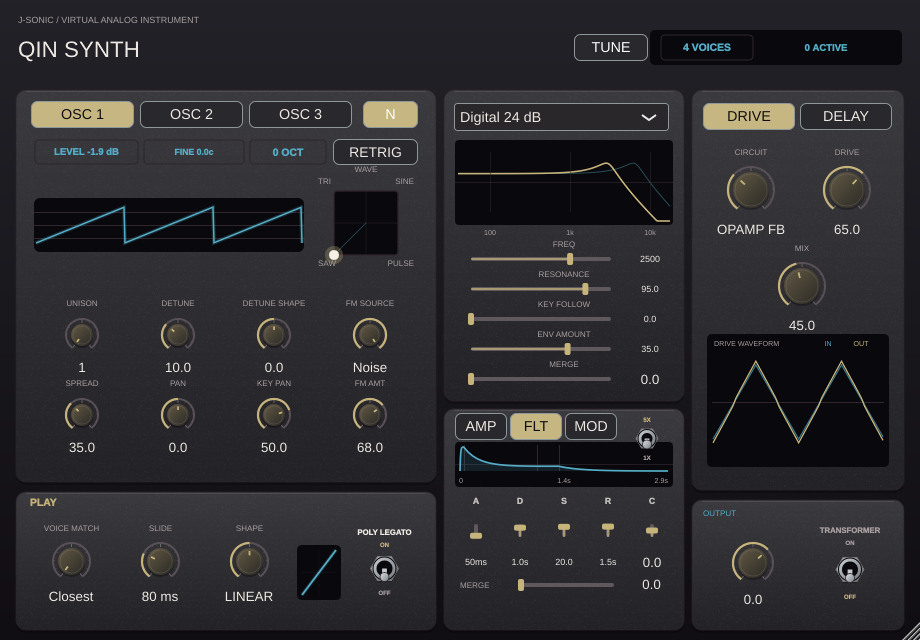
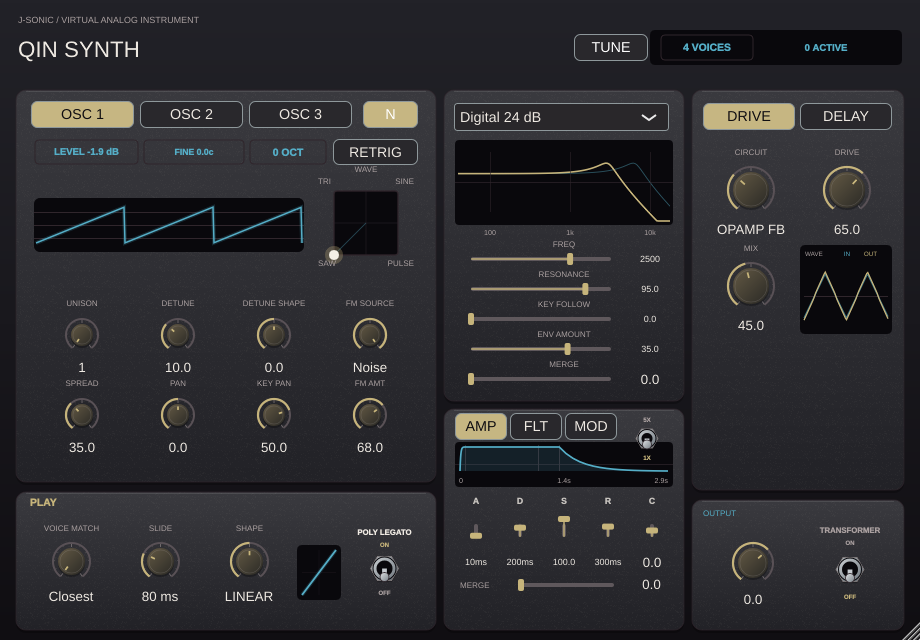
Compact Qin drive waveform beside Mix control

diff --git a/projects/QinSynth/Source/PluginEditor.cpp b/projects/QinSynth/Source/PluginEditor.cpp
@@ -666,7 +666,8 @@ QinSynthEditor::QinSynthEditor(QinSynthProcessor& synth)
     driveMode.onValueChange=[this]
     {
         updateDrivePreview();
-        repaint(editorScaling::repaintArea(*this,designWidth,designHeight,{707,334,182,133}));
+        repaint(editorScaling::repaintArea(*this,designWidth,designHeight,
+            {driveScopeX,driveScopeY,driveScopeWidth,driveScopeHeight}));
     };
     driveMix.setSliderStyle(juce::Slider::RotaryHorizontalVerticalDrag);
     driveMix.setComponentID("driveMix");
@@ -683,7 +684,8 @@ QinSynthEditor::QinSynthEditor(QinSynthProcessor& synth)
     driveMix.onValueChange=[this]
     {
         updateDrivePreview();
-        repaint(editorScaling::repaintArea(*this,designWidth,designHeight,{707,334,182,133}));
+        repaint(editorScaling::repaintArea(*this,designWidth,designHeight,
+            {driveScopeX,driveScopeY,driveScopeWidth,driveScopeHeight}));
     };
     addAndMakeVisible(transformerButton);
     transformerAttachment=std::make_unique<State::ButtonAttachment>(synth.parameters,"transformer",transformerButton);
@@ -807,7 +809,8 @@ QinSynthEditor::QinSynthEditor(QinSynthProcessor& synth)
     sliders[37].onValueChange=[this]
     {
         updateDrivePreview();
-        repaint(editorScaling::repaintArea(*this,designWidth,designHeight,{707,334,182,133}));
+        repaint(editorScaling::repaintArea(*this,designWidth,designHeight,
+            {driveScopeX,driveScopeY,driveScopeWidth,driveScopeHeight}));
     };
     for(size_t i=0;i<waves.size();++i)
     {
@@ -1029,7 +1032,8 @@ void QinSynthEditor::timerCallback()
                 if(std::abs(next.input[index])>1.e-4f || std::abs(next.output[index])>1.e-4f)
                 { liveScopeValid=true; break; }
             liveScope=std::move(next);
-            repaint(editorScaling::repaintArea(*this,designWidth,designHeight,{707,334,182,133}));
+            repaint(editorScaling::repaintArea(*this,designWidth,designHeight,
+                {driveScopeX,driveScopeY,driveScopeWidth,driveScopeHeight}));
         }
     }
     for(size_t i=0;i<waves.size();++i)
@@ -1184,7 +1188,7 @@ void QinSynthEditor::resized()
     verbNoteSlider.setBounds(714,158,74,75);
     driveModeLabel.setBounds(706,145,90,14); driveMode.setBounds(706,159,90,79);
     labels[37].setBounds(802,145,90,14); sliders[37].setBounds(802,159,90,79);
-    driveMixLabel.setBounds(758,241,88,14); driveMix.setBounds(758,255,88,79);
+    driveMixLabel.setBounds(707,241,88,14); driveMix.setBounds(707,255,88,79);
     transformerButton.setBounds(805,524,90,78);
     labels[36].setBounds(712,522,82,13); sliders[36].setBounds(712,535,82,73);
     for(int i=38;i<44;++i)
@@ -1414,13 +1418,14 @@ void QinSynthEditor::paint(juce::Graphics& g)
     g.setColour(stageStyle::secondary); g.setFont(juce::FontOptions(10.f));
     if(currentFxSection==0)
     {
-        const juce::Rectangle<float> scope(707,334,182,133);
+        const juce::Rectangle<float> scope{float(driveScopeX),float(driveScopeY),
+            float(driveScopeWidth),float(driveScopeHeight)};
         g.setColour(stageStyle::inset); g.fillRoundedRectangle(scope,5);
-        g.setColour(stageStyle::secondary); g.setFont(juce::FontOptions(8.f));
-        g.drawText("DRIVE WAVEFORM",714,338,105,12,juce::Justification::centredLeft);
-        g.setColour(cyan); g.drawText("IN",818,338,20,12,juce::Justification::centred);
-        g.setColour(accent); g.drawText("OUT",845,338,32,12,juce::Justification::centred);
-        g.setColour(stageStyle::grid); g.drawHorizontalLine(402,712,884);
+        g.setColour(stageStyle::secondary); g.setFont(juce::FontOptions(7.f));
+        g.drawText("WAVE",805,249,30,10,juce::Justification::centredLeft);
+        g.setColour(cyan); g.drawText("IN",839,249,16,10,juce::Justification::centred);
+        g.setColour(accent); g.drawText("OUT",857,249,27,10,juce::Justification::centred);
+        g.setColour(stageStyle::grid); g.drawHorizontalLine(296,804,888);
         const auto window=liveScopeValid ? qin::waveformWindow(liveScope.input)
             : qin::WaveformWindow{0.f,float(previewInput.size()-1),true};
         float peak=.2f;
@@ -1434,16 +1439,17 @@ void QinSynthEditor::paint(juce::Graphics& g)
         };
         if(liveScopeValid) { includePeak(liveScope.input); includePeak(liveScope.output); }
         else { includePeak(previewInput); includePeak(previewOutput); }
-        const auto gain=49.f/std::max(.2f,peak*1.2f);
+        const auto gain=29.f/std::max(.2f,peak*1.2f);
         const auto drawWave=[&](const auto& samples,juce::Colour colour)
         {
             juce::Path path;
-            for(size_t index=0;index<QinSynthProcessor::driveScopePoints;++index)
+            constexpr size_t displayPoints=80;
+            for(size_t index=0;index<displayPoints;++index)
             {
-                const auto fraction=float(index)/float(QinSynthProcessor::driveScopePoints-1);
-                const auto x=713.f+170.f*fraction;
+                const auto fraction=float(index)/float(displayPoints-1);
+                const auto x=804.f+84.f*fraction;
                 const auto sample=qin::waveformSample(samples,window.start+fraction*window.length);
-                const auto y=402.f-std::clamp(sample*gain,-49.f,49.f);
+                const auto y=296.f-std::clamp(sample*gain,-29.f,29.f);
                 if(index==0) path.startNewSubPath(x,y); else path.lineTo(x,y);
             }
             g.setColour(colour); g.strokePath(path,juce::PathStrokeType(1.3f));

diff --git a/projects/QinSynth/Tests/ProcessorTests.cpp b/projects/QinSynth/Tests/ProcessorTests.cpp
@@ -153,6 +153,11 @@ struct QinSynthEditorTestAccess
         && editor.transformerButton.getY()>=500 && editor.sliders[36].getY()>=500; }
     static bool compactFxKnobs(const QinSynthEditor& editor)
     { return editor.sliders[37].getHeight()<80 && editor.sliders[38].getHeight()<80; }
+    static bool compactDriveLayout(const QinSynthEditor& editor)
+    { return editor.driveMix.getRight()<=QinSynthEditor::driveScopeX
+        && editor.driveMix.getY()<QinSynthEditor::driveScopeY+QinSynthEditor::driveScopeHeight
+        && editor.driveMix.getBottom()>QinSynthEditor::driveScopeY
+        && QinSynthEditor::driveScopeWidth<=100 && QinSynthEditor::driveScopeHeight<=100; }
     static int driveModeCount(const QinSynthEditor& editor)
     { return editor.driveMode.getSliderStyle()==juce::Slider::RotaryHorizontalVerticalDrag
         ? juce::roundToInt(editor.driveMode.getMaximum()-editor.driveMode.getMinimum())+1 : 0; }
@@ -1491,6 +1496,7 @@ int main(int argc,char** argv)
                || !QinSynthEditorTestAccess::voiceDragEnabled(editor)
                || !QinSynthEditorTestAccess::outputSectionVisible(editor)
                || !QinSynthEditorTestAccess::compactFxKnobs(editor)
+               || !QinSynthEditorTestAccess::compactDriveLayout(editor)
                || !QinSynthEditorTestAccess::compactHeaderLayout(editor)
                || !QinSynthEditorTestAccess::wavePadEnabled(editor,0)
                || !QinSynthEditorTestAccess::wavePadEnabled(editor,1)
@@ -1713,7 +1719,7 @@ int main(int argc,char** argv)
                || std::abs(preview.parameters.getRawParameterValue("driveMix")->load()-45)>1.e-3
                || preview.parameters.getRawParameterValue("transformer")->load()<.5f)
                 throw std::runtime_error("Drive circuit, mix, and transformer controls must update host parameters");
-            if(changes({707,334,182,133},[&]{QinSynthEditorTestAccess::selectDriveMode(editor,4);})<20)
+            if(changes({800,245,92,89},[&]{QinSynthEditorTestAccess::selectDriveMode(editor,4);})<20)
                 throw std::runtime_error("Drive preview must follow the selected circuit");
             QinSynthEditorTestAccess::selectDriveMode(editor,2);
             QinSynthEditorTestAccess::setTransformer(editor,false);

diff --git a/projects/QinSynth/Source/PluginEditor.h b/projects/QinSynth/Source/PluginEditor.h
@@ -113,6 +113,7 @@ public:
 private:
     friend struct QinSynthEditorTestAccess;
     static constexpr int designWidth=920, designHeight=640;
+    static constexpr int driveScopeX=800, driveScopeY=245, driveScopeWidth=92, driveScopeHeight=89;
     void showOscillator(int oscillator);
     void showEnvelope(int envelope);
     void showFxSection(int section);

diff --git a/projects/QinSynth/README.md b/projects/QinSynth/README.md
@@ -42,7 +42,7 @@ ENV has three independent envelopes, edited with five vertical sliders labeled A
 
 FLT uses logarithmic Freq and Resonance sliders, plus Key Follow, Env Amount, and Merge. At 0% Merge every note has its own filter; at 100% the voices feed one shared stereo filter, with a smooth blend between the two paths. The longer horizontal sliders make fine filter adjustments easier. The response graph has a frequency scale and follows the active cutoff while notes play, averaging the voice cutoffs by level when several notes sound together. When MOD targets Resonance, a cyan slider marker and the response curve follow the effective resonance without changing the saved knob value. When idle, its solid trace represents the held filter-envelope level at C5 and a lighter trace shows the attack peak when different. The graph reserves headroom for the resonant peak. Filter choices are bypass, a nonlinear TB-303-style four-pole ladder, an 18 dB/oct Sallen-Key stage with a third low-pass pole, and 12 or 24 dB/oct digital state-variable low-passes. The Sallen-Key model solves its two capacitor voltages together with trapezoidal integration, and a precomputed coefficient table replaces repeated trigonometric calls. The state-variable filter uses a stable trapezoidal integrator with controlled resonance, and a soft ceiling bounds extreme polyphonic output. New voices start at their intended cutoff, while later cutoff changes glide over 5 ms per voice; unison detune and octave pitch ratios ramp within each audio block. New notes take a free voice first, then steal a released or oldest voice when the selected voice count is occupied. Sustain pedal (MIDI CC64), note-off, all-notes-off, and all-sound-off are supported.
 
-The stepped Circuit knob selects Zao Drive's BJT common emitter, op-amp feedback, diode shunt, and series diode crossover models with Zao's default bias and diode knee. Drive sets circuit intensity, while the separate Mix knob blends driven and dry oscillator signals; a short crossfade softens circuit changes. At zero Mix, the drive circuit does no processing. The BJT junction and Schottky current curves are precomputed and shared with Zao Drive; each voice's circuit state and solver still update with the audio. The waveform display compares input and post-drive output in real time, synchronizing both traces to complete input waveform periods when a stable period is present; when idle, it previews the selected circuit driven by a triangle wave. The OSC waveform illustration also spans three complete cycles. The delay-reverb reuses Lan Reverb's eight-line feedback network and Scatter control. Qin disables Lan's spectral resonance analyser and tamer. A MIDI note-on changes the feedback tap target and phase-scatter depth according to note pitch, velocity, and alternating onset direction; Tap Motion and Phase Motion set the amount. Lan's existing tap crossfades and phase smoothing soften these changes. No audio-spectrum detection controls the tap or phase. The **Transformer** button inserts Ren Transformer's default stage after Lan's output. Its nonlinear core stops processing when the button is off; a fixed 64-sample delay keeps the on and off paths aligned.
+The stepped Circuit knob selects Zao Drive's BJT common emitter, op-amp feedback, diode shunt, and series diode crossover models with Zao's default bias and diode knee. Drive sets circuit intensity, while the separate Mix knob blends driven and dry oscillator signals; a short crossfade softens circuit changes. At zero Mix, the drive circuit does no processing. The BJT junction and Schottky current curves are precomputed and shared with Zao Drive; each voice's circuit state and solver still update with the audio. Mix sits on the left of the Drive panel's second row, beside a compact waveform display on the right. The waveform display compares input and post-drive output in real time, synchronizing both traces to complete input waveform periods when a stable period is present; when idle, it previews the selected circuit driven by a triangle wave. The OSC waveform illustration also spans three complete cycles. The delay-reverb reuses Lan Reverb's eight-line feedback network and Scatter control. Qin disables Lan's spectral resonance analyser and tamer. A MIDI note-on changes the feedback tap target and phase-scatter depth according to note pitch, velocity, and alternating onset direction; Tap Motion and Phase Motion set the amount. Lan's existing tap crossfades and phase smoothing soften these changes. No audio-spectrum detection controls the tap or phase. The **Transformer** button inserts Ren Transformer's default stage after Lan's output. Its nonlinear core stops processing when the button is off; a fixed 64-sample delay keeps the on and off paths aligned.
 
 The FLT Resonance slider uses a logarithmic taper with finer control near 100%, while keeping the same 0–100% filter setting.
 
